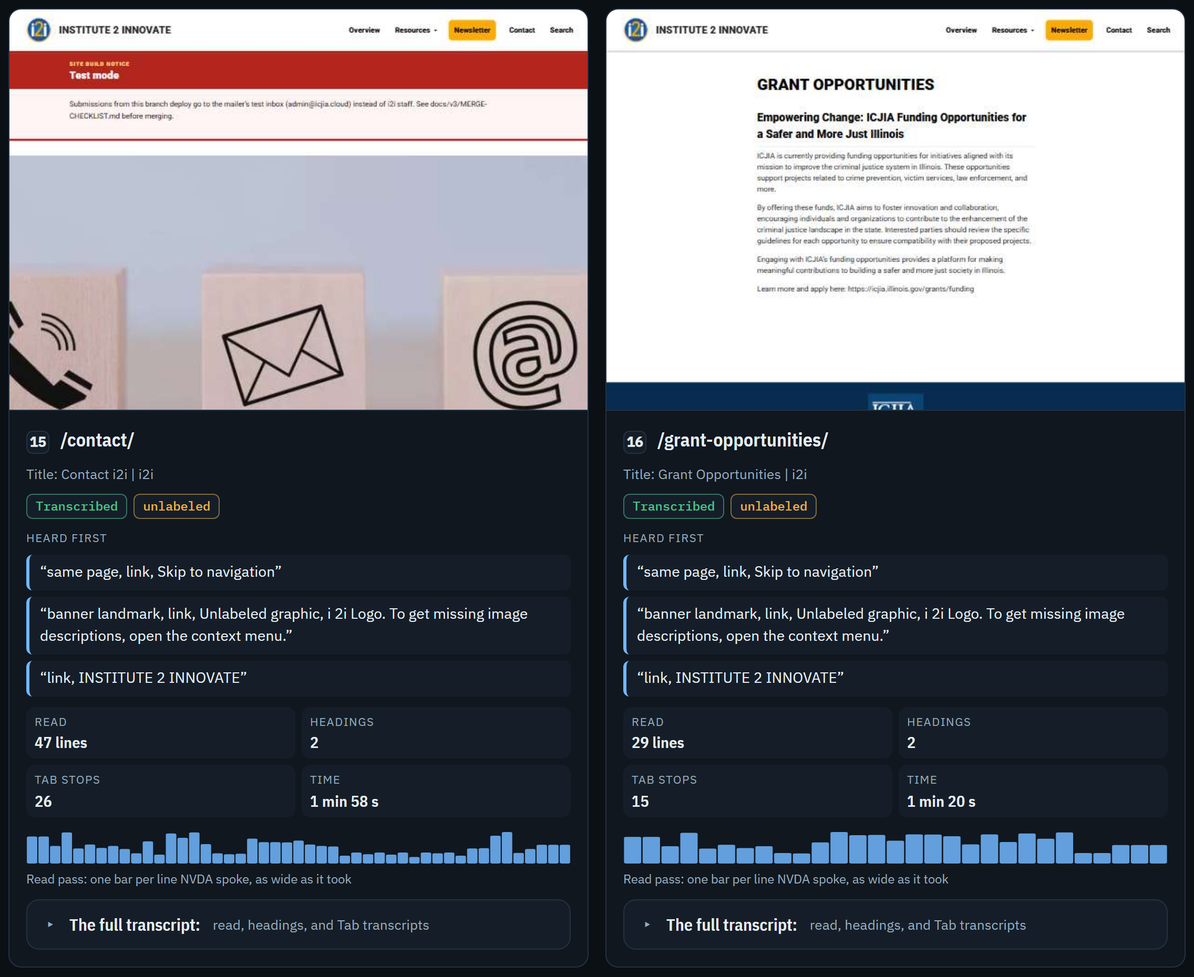
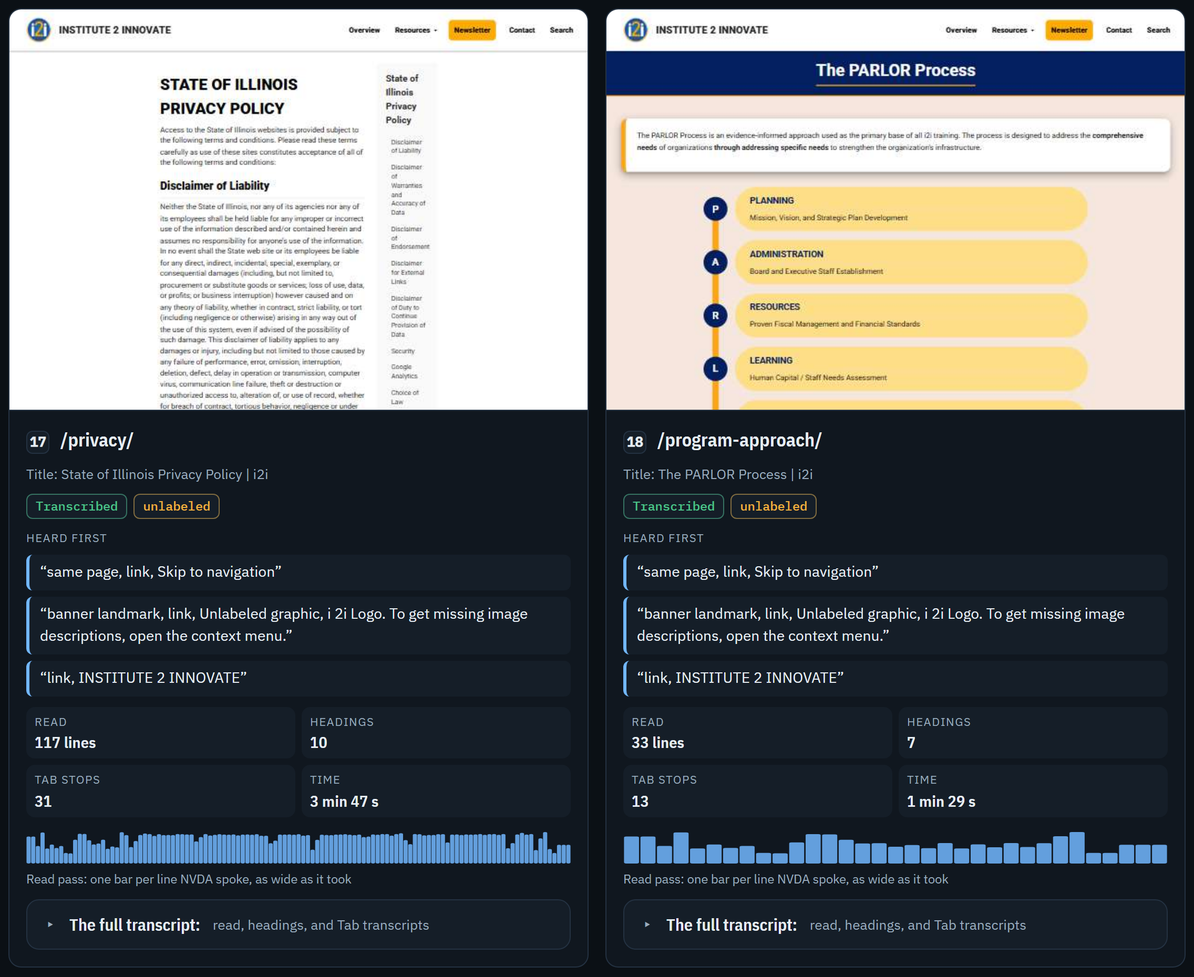
Give the owner's reason for two cards a row, and keep the README's cards picture off the contact page

diff --git a/scripts/readme-screenshots.ts b/scripts/readme-screenshots.ts
@@ -20,7 +20,8 @@
  *   report-pages.png         "Every page": a row of its cards (two, in this window), each with its
  *                            page's screenshot, what NVDA said first on it ("Heard first"), and its
  *                            full transcript, in its fold, shut: the first row with no card for a
- *                            /biographies/ page (see BIOGRAPHIES)
+ *                            page at an address in AVOIDED, which keeps out a /biographies/ page's
+ *                            photo and name, and a /contact/ page's test-mode notice
  *   report-timeline.png      the run's evidence, with its minute-by-minute timeline open
  *   report-fingerprints.png  the fingerprint check, after it has run
  *   website-dark.png         the website's bar, through the site under "The sites": its current
@@ -89,12 +90,17 @@ const SCALE = 2;
 const SLICE_MARGIN = 16;
 const PANEL_MARGIN = 8;
 /**
- * What the address of a biography has in it: each page of the i2i team's biographies shows a person's
- * photo and name. The shot of page cards leaves out every row that has a card for such a page, and
- * nothing else: a page at another address that shows a photo would still be drawn. So when the
- * fixture changes, look at that shot for photos and names.
+ * What the address of a page has in it that keeps its card out of the shot of page cards. The shot
+ * leaves out every row that has a card for a page at one of these addresses, and nothing else: a
+ * page at another address that shows the same would still be drawn. So when the fixture changes,
+ * look at that shot.
+ *
+ * - `/biographies/`: each page of the i2i team's biographies shows a person's photo and name.
+ * - `/contact/`: its screenshot carries the branch deploy's test-mode notice, a red "SITE BUILD
+ *   NOTICE" that names the mailer's test inbox and a checklist in the site's docs, which a public
+ *   README shouldn't lead its cards with.
  */
-const BIOGRAPHIES = "/biographies/";
+export const AVOIDED = ["/biographies/", "/contact/"] as const;
 
 /** The eight files this writes, in the order it takes them. */
 export const SCREENSHOTS = [
@@ -255,19 +261,20 @@ async function downTo(page: Page, selector: string, last: string, margin: number
 }
 
 /**
- * The first row of `cards`, the elements of a grid, with no card that has `avoid` in its text, and
- * `margin` of the page around it. The cards that start as high as each other are a row, and the row
- * is as wide as its cards and as tall as the tallest, so none is cut off. Stops when every row has
- * a card with `avoid` in it.
+ * The first row of `cards`, the elements of a grid, with no card that has any of `avoid` in its
+ * text, and `margin` of the page around it. The cards that start as high as each other are a row,
+ * and the row is as wide as its cards and as tall as the tallest, so none is cut off. Stops when
+ * every row has a card with one of `avoid` in it. The page's shot of its cards gives AVOIDED, each
+ * address kept out for a reason of its own.
  */
 export async function firstRowWithout(
   page: Page,
   cards: string,
-  avoid: string,
+  avoid: readonly string[],
   margin: number,
 ): Promise<Region> {
   const row = await page.evaluate(
-    ({ target, text }) => {
+    ({ target, texts }) => {
       const rows: Element[][] = [];
       let top = Number.NEGATIVE_INFINITY;
       for (const card of document.querySelectorAll(target)) {
@@ -276,7 +283,12 @@ export async function firstRowWithout(
         top = at;
         rows.at(-1)?.push(card);
       }
-      const found = rows.find((each) => each.every((card) => !card.textContent?.includes(text)));
+      const found = rows.find((each) =>
+        each.every((card) => {
+          const words = card.textContent ?? "";
+          return !texts.some((text) => words.includes(text));
+        }),
+      );
       if (found === undefined) return null;
       const boxes = found.map((card) => card.getBoundingClientRect());
       return {
@@ -286,9 +298,12 @@ export async function firstRowWithout(
         bottom: Math.max(...boxes.map((box) => box.bottom)) + window.scrollY,
       };
     },
-    { target: cards, text: avoid },
+    { target: cards, texts: avoid },
   );
-  if (row === null) throw new Error(`Every row of ${cards} has "${avoid}" in it.`);
+  if (row === null) {
+    const names = avoid.map((each) => `"${each}"`).join(" or ");
+    throw new Error(`Every row of ${cards} has ${names} in it.`);
+  }
   return withMargin(row, margin);
 }
 
@@ -382,14 +397,16 @@ async function shootReport(browser: Browser, file: string, shoot: Shoot): Promis
     await shoot(page, "report-attention.png", await around(page, attention, SLICE_MARGIN));
 
     // "Every page": a row of its cards, each with its page's screenshot, the lines NVDA said first,
-    // and its full transcript, in its fold, shut: the first row with no card for a /biographies/
-    // page, which keeps this fixture's team photos and names out of the picture. The code checks
-    // only the address, so look at the shot for photos when the fixture changes. The row ends
-    // before the next one starts, so no card is cut off.
+    // and its full transcript, in its fold, shut: the first row with no card for a /biographies/ or
+    // a /contact/ page (AVOIDED). The first keeps this fixture's team photos and names out of the
+    // picture, and the second the branch deploy's test-mode notice, which names the mailer's test
+    // inbox. The code checks only the address, so look at the shot for photos, names, and that
+    // notice when the fixture changes. The row ends before the next one starts, so no card is cut
+    // off.
     await shoot(
       page,
       "report-pages.png",
-      await firstRowWithout(page, "#pages .card", BIOGRAPHIES, PANEL_MARGIN),
+      await firstRowWithout(page, "#pages .card", AVOIDED, PANEL_MARGIN),
     );
 
     // The run's fold, open, down to the end of its minute by minute: the run's facts, the chart,

diff --git a/test/readme-screenshots.test.ts b/test/readme-screenshots.test.ts
@@ -15,6 +15,7 @@ import type { Browser } from "playwright";
 import { afterAll, beforeAll, describe, expect, it } from "vitest";
 
 import {
+  AVOIDED,
   firstRowWithout,
   makeScreenshots,
   refuseLocalAddress,
@@ -222,7 +223,7 @@ describe("a shot of a page", () => {
         "/biographies/john-roe/",
       ]);
 
-      expect(await firstRowWithout(page, ".card", "/biographies/", 4)).toEqual({
+      expect(await firstRowWithout(page, ".card", ["/biographies/"], 4)).toEqual({
         x: 0,
         y: 56,
         width: 214,
@@ -232,7 +233,7 @@ describe("a shot of a page", () => {
 
     it("is the first row when it has none, and stops when every row has one", async () => {
       const first = await gridOf(["/", "/contact/", "/privacy/", "/search/"]);
-      expect(await firstRowWithout(first, ".card", "/biographies/", 0)).toEqual({
+      expect(await firstRowWithout(first, ".card", ["/biographies/"], 0)).toEqual({
         x: 0,
         y: 0,
         width: 210,
@@ -240,9 +241,57 @@ describe("a shot of a page", () => {
       });
 
       const every = await gridOf(["/biographies/a/", "/b/", "/biographies/c/", "/biographies/d/"]);
-      await expect(firstRowWithout(every, ".card", "/biographies/", 4)).rejects.toThrow(
+      await expect(firstRowWithout(every, ".card", ["/biographies/"], 4)).rejects.toThrow(
         'Every row of .card has "/biographies/" in it.',
       );
+    });
+
+    it("passes over a row that has any of the kinds, whichever of its cards has one and whichever kind it is", async () => {
+      // A contact page in the first row's second card, a person's page in the second row's first,
+      // and neither in the third.
+      const page = await gridOf([
+        "/",
+        "/contact/",
+        "/biographies/jane-doe/",
+        "/privacy/",
+        "/search/",
+        "/about/",
+      ]);
+
+      expect(await firstRowWithout(page, ".card", ["/biographies/", "/contact/"], 4)).toEqual({
+        x: 0,
+        y: 116,
+        width: 214,
+        height: 58,
+      });
+      // Told of one kind alone, it passes over that kind alone, and the other's row is drawn.
+      expect(await firstRowWithout(page, ".card", ["/biographies/"], 4)).toEqual({
+        x: 0,
+        y: 0,
+        width: 214,
+        height: 54,
+      });
+      expect(await firstRowWithout(page, ".card", ["/contact/"], 4)).toEqual({
+        x: 0,
+        y: 56,
+        width: 214,
+        height: 58,
+      });
+    });
+
+    it("stops when every row has one of the kinds, and names them all", async () => {
+      const every = await gridOf(["/contact/", "/b/", "/biographies/c/", "/d/"]);
+
+      await expect(
+        firstRowWithout(every, ".card", ["/biographies/", "/contact/"], 4),
+      ).rejects.toThrow('Every row of .card has "/biographies/" or "/contact/" in it.');
+    });
+
+    it("keeps out a biography's photo and name, and a contact page's test-mode notice, from the shot of the cards", () => {
+      // Each is the address of a page whose screenshot a public README shouldn't lead its cards
+      // with: the i2i team's photos and names, and the branch deploy's notice of its mailer's test
+      // inbox.
+      expect([...AVOIDED]).toEqual(["/biographies/", "/contact/"]);
     });
   });
 });

diff --git a/src/share/html/style.ts b/src/share/html/style.ts
@@ -55,10 +55,11 @@ export const THEME_CSS = `:root {
  *   (`minmax(min(300px, 100%), 1fr)`), and the tiles' columns shrink to nothing (`minmax(0, 1fr)`),
  *   so nothing runs past a window 320 pixels wide, where WCAG's reflow rule is measured;
  * - the page's cards (`.cards`) are two a row where each gets at least 420 pixels (the owner's
- *   choice of 2026-10-07), and one a row otherwise, as on a phone and on paper. A column asks for
- *   half its box less half the gap, or 420 pixels when that is more, and never more than the box, so
- *   a third never fits and the grid still shrinks to a window 320 pixels wide. The fold of the quiet
- *   cards, with more than 12 pages, holds the same grid;
+ *   choice of 2026-10-07), and one a row otherwise, as on a phone and on portrait paper (landscape
+ *   paper has the room for two). A column asks for half its box less half the gap, or 420 pixels
+ *   when that is more, and never more than the box, so a third never fits and the grid still shrinks
+ *   to a window 320 pixels wide. The fold of the quiet cards, with more than 12 pages, holds the
+ *   same grid;
  * - at a glance (`.glance`): its parts in a grid, close together at the top, and further apart from
  *   the ring on. The verdict is one large line, with its sign drawn before it, in the theme's
  *   green, amber, or red, with no alternative text (`content: "✓" / ""`), since it only repeats the
@@ -190,7 +191,7 @@ code { overflow-wrap: anywhere; }
 .c-bad { color: var(--bad); border-color: color-mix(in srgb, var(--bad) 45%, var(--line)); }
 .c-warn { color: var(--warn); border-color: color-mix(in srgb, var(--warn) 45%, var(--line)); }
 .c-quiet { color: var(--muted); }
-/* pages: the cards, two a row where each gets at least 420px, and one a row otherwise, as wide as the box. A column asks for half the box less half the gap (the 16px between two), or 420px when that is more, and never more than the box itself. So a third never fits, two fit in a box 856px wide (two of 420 and the gap), and the box of a phone's window, or of a sheet of paper, is narrower, so it has one. The quiet cards' fold holds the same grid. */
+/* pages: the cards, two a row where each gets at least 420px, and one a row otherwise, as wide as the box. A column asks for half the box less half the gap (the 16px between two), or 420px when that is more, and never more than the box itself. So a third never fits, two fit in a box 856px wide (two of 420 and the gap), and the box of a phone's window, or of a portrait sheet of paper, is narrower, so it has one. The quiet cards' fold holds the same grid. */
 .cards { display: grid; grid-template-columns: repeat(auto-fill, minmax(min(100%, max(420px, calc((100% - 16px) / 2))), 1fr)); gap: 16px; }
 .cards + .folds, .cards + .panel, .folds + .panel { margin-top: 16px; }
 .card { background: var(--panel); border: 1px solid var(--line); border-radius: 12px; overflow: hidden; display: grid; grid-template-rows: auto 1fr; min-width: 0; }

diff --git a/test/share-browser.test.ts b/test/share-browser.test.ts
@@ -1619,7 +1619,7 @@ describe("Every page's cards", () => {
     expect([...shown].sort()).toEqual([1, 2]);
   });
 
-  it("puts one card in a row on Letter paper, which has no room for two of 420 px", async () => {
+  it("puts one card in a row on portrait Letter paper, which has no room for two of 420 px", async () => {
     const page = await open(pages.demo);
     // 8.5 inches at 96 to the inch, with no margin: the paper is narrower than that in all.
     await page.setViewportSize({ width: 816, height: 1056 });
@@ -1628,6 +1628,19 @@ describe("Every page's cards", () => {
     const { rows } = await cardsIn(page, "#pages .card");
 
     expect(across(rows)).toEqual([1, 1, 1, 1, 1, 1, 1]);
+  });
+
+  it("puts two cards in a row on landscape Letter paper, which has the room", async () => {
+    const page = await open(pages.demo);
+    // 11 inches at 96 to the inch is 1056 px; the browser's usual margin of 0.4 inch (38 px) on each
+    // side leaves 980, and the page's own 24 px at each side leaves a grid 932 px wide.
+    await page.setViewportSize({ width: 1056 - 2 * 38, height: 816 });
+    await page.emulateMedia({ media: "print" });
+
+    const { rows, grid } = await cardsIn(page, "#pages .card");
+
+    expect(grid).toBeGreaterThanOrEqual(2 * 420 + 16);
+    expect(across(rows)).toEqual([2, 2, 2, 1]);
   });
 
   it("lays the quiet cards' fold out the same way, two a row where there is room and one where there is not", async () => {

diff --git a/src/share/cards.ts b/src/share/cards.ts
@@ -186,9 +186,10 @@ export function cardsOf(input: CardsInput): PageCard[] {
     const name = input.name(page);
     const readSteps =
       shown === null ? [] : (transcripts.steps(shown.run.id, shown.page.slug, "read") ?? []);
-    // The card's fold shows the read transcript's TXT, so the lines it quotes are that file's. With
-    // the TXT unreadable here its fold says so, and there is nothing to quote beside it, though the
-    // steps of the read pass's JSON can still be read (and draw the strip).
+    // The card's fold shows the read transcript's TXT, so the card quotes nothing of a read pass whose
+    // file it can't show: the lines come from the pass's steps (its JSON), and the TXT only gates
+    // them. With the TXT unreadable here its fold says so, and there is nothing to quote beside it,
+    // though the steps of the read pass's JSON can still be read (and draw the strip).
     const readShown =
       shown !== null && transcripts.txt(shown.run.id, shown.page.slug, "read") !== null;
     return {

diff --git a/src/share/model.ts b/src/share/model.ts
@@ -538,9 +538,10 @@ function testedOf(runs: RunJson[]): string {
  * and NVDA's speech, until NVDA was quiet.
  *
  * A pass is quoted only when its TXT transcript can be read here, as a page's card quotes its read
- * pass (see `cardsOf`): the page shows that file, so the lines it quotes are that file's. A pass
- * whose TXT can't be read gives no lines, though its steps (the JSON) may be there, and is left
- * out, as a pass with nothing to show is.
+ * pass (see `cardsOf`). The lines come from the pass's steps (its JSON), and the TXT only gates
+ * them: the page shows the TXT file, so it quotes nothing of a pass whose file it can't show. Such a
+ * pass gives no lines, though its steps may be there, and is left out, as a pass with nothing to
+ * show is.
  */
 function heardOf(
   pages: PageStanding[],

diff --git a/README.md b/README.md
@@ -1324,11 +1324,11 @@ Its sections, in order:
   - **Alt text that's there, and still read as "Unlabeled graphic":** Chrome splits an image's alt text at spaces, punctuation, and digits, drops words of one or two letters and common words such as "logo" and "image", and treats the image as having no name when fewer than three letters are left. The card says so, and says NVDA is reading what Chrome reports (Chromium's source, `ax_image_annotator.cc` and `ax_image_stopwords.cc`, checked 6 October 2026).
   - **A fix comes from what NVDA said, never from the page's code:** voicecap keeps no page's HTML. A card's fix is the usual fix for the case NVDA's words show, so it's a suggestion, and the person reviewing decides whether it fits.
   - **What clears a problem:** a card is gone when no page is left on it. A flag clears for a page when a later run of the page doesn't raise it, or when the page is marked "Reviewed, no issues" after the run that raised it (see [Reviews: the audit trail](#reviews-the-audit-trail)); it comes back if the page's transcripts change after that review. A page that couldn't be read, or whose read stopped before the page's end, clears only when a later run reads it to its end: a review doesn't clear it. An issue clears when it's marked "Fixed". With no card left, the section isn't there: At a glance's verdict says "Nothing needs attention", and its links leave the section out. When some pages were skipped, which are on no card and weren't read, the verdict says "Nothing needs attention on the pages read", in red, and the sentence under it says how many were skipped.
-- **Every page**: a card for each page, in the latest run's order, two a row where each card gets at least 420 pixels (a laptop's or a desktop's window), and one a row on a phone's window and on paper. A card has the page's screenshot, its number and address, its title as the browser reported it, and chips for its result, its flags, and the person's review. Under them is "Heard first": the first three lines NVDA said as it read the page, in quotes, word for word. A step where NVDA said nothing isn't in quotes: it shows as the marker the transcript writes, `[no speech]`, since those aren't words NVDA said. Then come what each pass captured (the lines read, the headings, the Tab stops, and the time), a bar for each line NVDA spoke in the read pass, and, last, "The full transcript", a fold that starts shut: a transcript for each pass the run recorded (read, headings, and Tab), word for word, each with its line count, size, and fingerprint. Every card's fold reads alike on screen, so each names its page for a screen reader alone ("The full transcript of /privacy/: read, headings, and Tab transcripts"). A page with no screenshot says why where the picture would be (its run was made before 0.11.0, say, or the browser couldn't take one). A screenshot that's missing, or isn't the file its run recorded, isn't shown, and the page says so. A page with no transcripts, one that was never read, say, has no "Heard first" and no fold, and a page whose transcripts can't be read here has its fold, with a line that says so. With more than 12 pages, the cards with nothing to note fold behind one line, each still holding its own transcript fold, and the pages that need attention always show. Each page's words are in its card, and "Check the fingerprints" checks them there.
+- **Every page**: a card for each page, in the latest run's order, two a row where each card gets at least 420 pixels (a laptop's or a desktop's window), and one a row on a phone's window and on portrait paper. A card has the page's screenshot, its number and address, its title as the browser reported it, and chips for its result, its flags, and the person's review. Under them is "Heard first": the first three lines NVDA said as it read the page, in quotes, word for word. A step where NVDA said nothing isn't in quotes: it shows as the marker the transcript writes, `[no speech]`, since those aren't words NVDA said. Then come what each pass captured (the lines read, the headings, the Tab stops, and the time), a bar for each line NVDA spoke in the read pass, and, last, "The full transcript", a fold that starts shut: a transcript for each pass the run recorded (read, headings, and Tab), word for word, each with its line count, size, and fingerprint. Every card's fold reads alike on screen, so each names its page for a screen reader alone ("The full transcript of /privacy/: read, headings, and Tab transcripts"). A page with no screenshot says why where the picture would be (its run was made before 0.11.0, say, or the browser couldn't take one). A screenshot that's missing, or isn't the file its run recorded, isn't shown, and the page says so. A page with no transcripts, one that was never read, say, has no "Heard first" and no fold, and a page whose transcripts can't be read here has its fold, with a line that says so. With more than 12 pages, the cards with nothing to note fold behind one line, each still holding its own transcript fold, and the pages that need attention always show. Each page's words are in its card, and "Check the fingerprints" checks them there.
 
-  Two of the i2i report's 32 page cards, for /contact/ and /grant-opportunities/, as a wide window shows them, two a row:
+  Two of the i2i report's 32 page cards, for /privacy/ and /program-approach/, as a wide window shows them, two a row:
 
-  ![Two page cards under "Every page" in the i2i report, side by side: pages 15 and 16 of 32, /contact/ and /grant-opportunities/. Each has the page's screenshot, its number and address, its title as the browser reported it ("Contact i2i | i2i" and "Grant Opportunities | i2i"), two chips ("Transcribed" and "unlabeled", the rule that raised a flag), "Heard first" with the first three lines NVDA said on the page, in quotes ("same page, link, Skip to navigation"; "banner landmark, link, Unlabeled graphic, i 2i Logo. To get missing image descriptions, open the context menu."; and "link, INSTITUTE 2 INNOVATE"), what each pass captured (lines read, headings, Tab stops, and time), a bar for each line NVDA spoke in the read pass, and, last, a shut fold, "The full transcript: read, headings, and Tab transcripts".](https://raw.githubusercontent.com/ICJIA/voicecap/main/assets/screenshots/report-pages.png)
+  ![Two page cards under "Every page" in the i2i report, side by side: pages 17 and 18 of 32, /privacy/ and /program-approach/. Each has the page's screenshot, its number and address, its title as the browser reported it ("State of Illinois Privacy Policy | i2i" and "The PARLOR Process | i2i"), two chips ("Transcribed" and "unlabeled", the rule that raised a flag), "Heard first" with the first three lines NVDA said on the page, in quotes ("same page, link, Skip to navigation"; "banner landmark, link, Unlabeled graphic, i 2i Logo. To get missing image descriptions, open the context menu."; and "link, INSTITUTE 2 INNOVATE"), what each pass captured (lines read, headings, Tab stops, and time), a bar for each line NVDA spoke in the read pass, and, last, a shut fold, "The full transcript: read, headings, and Tab transcripts".](https://raw.githubusercontent.com/ICJIA/voicecap/main/assets/screenshots/report-pages.png)
 
 - **The details, for reviewers and auditors**: "How the test was run, what it covered, and the evidence behind it." Each part has a heading of its own, in this order:
   - **What's still to do**: the tasks that are left: an issue to fix, or to record the fix of; a page to read again (one the latest run couldn't read, or whose read stopped before the page's end); a skipped page to check, which may not belong on the list; a flagged page to decide about; and a page to review again, because it reads differently since its review. Or that nothing is left.

diff --git a/docs/superpowers/specs/2026-09-30-shareable-report-design.md b/docs/superpowers/specs/2026-09-30-shareable-report-design.md
@@ -77,7 +77,7 @@ The owner asked on 2026-10-07 for the page to put what matters most to a manager
    - its pass counts (read lines, headings, Tab stops) and its time, and its spoken-line strip: one bar per line NVDA spoke, as wide as the line took and as tall as the square root of its length;
    - **the full transcript,** folded, at the card's end: the run its transcripts are from, then a transcript for each pass the run recorded (read, headings, and Tab), word for word, each with its line count, size, and fingerprint. The fingerprint check covers them here (see "Checking the fingerprints in the page"). Every card's fold line reads alike on screen ("The full transcript: read, headings, and Tab transcripts"), so each names its page for a screen reader, in hidden words ("The full transcript of /about/: …"), and each transcript's heading does the same. A page whose transcripts can't be read here has its fold, with the line that says so; a page with no transcripts has no fold.
 
-   The cards are two a row on a wide window, where each gets at least 420 px, and never more than two (D5). A grid 856 px wide holds two of 420 px and the 16 px between them, so a laptop's or a desktop's window shows two, about 560 px each at 1280 px. On a phone's window, and in print, there is no room for two of 420 px (Letter is 816 px wide before its margins), so the cards are one a row, as wide as the page. The fold of the pages with nothing to note holds the same grid.
+   The cards are two a row on a wide window, where each gets at least 420 px, and never more than two (D5). A grid 856 px wide holds two of 420 px and the 16 px between them, so a laptop's or a desktop's window shows two, about 560 px each at 1280 px. On a phone's window, and on portrait paper, there is no room for two of 420 px (portrait Letter is 816 px wide before its margins), so the cards are one a row, as wide as the page. Landscape paper (Letter is 1056 px wide before its margins) leaves 856 px or more at the browser's usual margins, and prints two a row. The fold of the pages with nothing to note holds the same grid.
 
    The appendix of transcripts is gone; this is the one place for each page's words. Over 12 pages, the pages with nothing to note fold behind a line, as before, and each keeps its own transcript fold inside it.
 
@@ -652,7 +652,7 @@ A public site the owner can point anyone to, https://voicecap.netlify.app (appro
 - The page ring: its three parts, "Read, no problems", "Read, with problems", and "Not read", in that order, with their counts from the records (D6), its legend, and its text for a screen reader, with the legend named by the total ("7 pages") in Chromium's accessibility tree; the Word copy's table of it, with the same three words in the same order.
 - The four big numbers, and "On this page" with its links (no "What needs attention" link without a card), said once in Chromium's accessibility tree.
 - Every page: the lines NVDA said first, none beside a read transcript that couldn't be read here (though its steps can be read), and a step of no speech as its marker, without quotes, on the page and in Word; the sample of the home page's lines under How voicecap works follows the same two rules, a pass quoted only where its transcript can be read here and a step of no speech as its marker; the full transcript folded in each card; "Check the fingerprints" covering the transcripts there, and catching a changed character in one.
-- The cards' layout, in headless Chromium (D5): two a row where each gets at least 420 px and one a row where they don't, at any width (the grid 856 px wide is the edge, tried to the pixel); the first two cards sharing a row and the third starting the next at 1280 px, and one a row at 390 and 320 px and on Letter paper in print; the fold of the quiet cards laid out the same way.
+- The cards' layout, in headless Chromium (D5): two a row where each gets at least 420 px and one a row where they don't, at any width (the grid 856 px wide is the edge, tried to the pixel); the first two cards sharing a row and the third starting the next at 1280 px, and one a row at 390 and 320 px and on portrait Letter paper in print, and two a row on landscape Letter paper; the fold of the quiet cards laid out the same way.
 - The details: each part's heading in order, with its gist; the two bars there.
 - The Word copy in the same order, with each page's transcripts under it.
 - The edge cases: a site where no run counts (no verdict, ring, or numbers, and none of the details' five counts); a site of more than 12 pages, where each page with nothing to note keeps its own transcript fold, a link into it opens both folds, and "Open every section" opens them all; a page never read, and a page whose transcripts can't be read here; text that needs escaping in a page's first lines, shown as text on the page and as plain text in Word; and a ring of one part, which is one whole circle.
@@ -680,7 +680,7 @@ A public site the owner can point anyone to, https://voicecap.netlify.app (appro
    - **D2,** the verdict is red when NVDA read fewer pages than are in scope, whether a page couldn't be read or was skipped, and red comes first, whatever the cards say: then amber for cards left, then green (the website's card's rule since 0.12.3);
    - **D3,** the method line keeps the page's words, "the reading and the deciding" (`summary.second`);
    - **D4,** the Word copy matches the page: the ring's table replaces each page's latest result, and it has no "On this page";
-   - **D5,** the cards under Every page are two a row on a wide window, where each gets at least 420 px, and one a row on a phone's window and in print (the owner chose this: "Two a row", from the i2i report's cards drawn three ways). The reason: wider cards. At about 560 px each at 1280 px, a card has room for its screenshot, the lines NVDA said first, and its counts, where four across, as it was, left about 270 px for each;
+   - **D5,** the cards under Every page are two a row on a wide window, where each gets at least 420 px, and one a row on a phone's window and on portrait paper (the owner chose this: "Two a row", from the i2i report's cards drawn three ways). The reason: at four a row, an opened full transcript read in a box about 200 px wide, and its lines ran together. At two a row a card is about 560 px wide at a 1280 px window, where four across left about 270 px;
    - **D6,** the ring's parts say whether NVDA read the page: "Read, no problems", "Read, with problems", and "Not read" (the owner chose this: "Say they were read"). The reason: the middle part used to be "Need attention", which could contradict the verdict. When a page in scope was never read and has a card of its own, the verdict said "⚠ 1 problem needs attention, on 1 page" while the legend said "Need attention: 0" and "Not read: 1". Now the legend says "Read, with problems: 0" and "Not read: 1".
 
 ## Facts to confirm at the PC

diff --git a/CHANGELOG.md b/CHANGELOG.md
@@ -13,7 +13,7 @@ All notable changes to voicecap are recorded here. The format follows [Keep a Ch
   - **The sentence doesn't count the problems that need attention; the verdict does.** The sentence counted only the problems that come from flags ("1 problem needs attention, on 32 pages."), and the verdict counts every card, as "What needs attention" does, so on the demo the two would have said 4 and 5. The sentence keeps who ran it, who heard NVDA, who reviewed, and what review found ("NVDA read all 32 pages, run by Christopher Schweda."), and the verdict is the one count.
   - **"What needs attention" is there only when there's a card.** With none, the verdict says so, and "On this page" has no link to it. The "Nothing needs attention: every page was read, and every flag was fixed or checked by a person." lines, in the section and in the summary's panel, are gone.
   - **Each page's first lines and its full transcript are in its card, in place of the appendix.** A card shows "Heard first", the first three lines NVDA said as it read the page, word for word, in quotes. A step where NVDA said nothing isn't in quotes: it shows as the marker the transcript writes, `[no speech]`. Its last part is a closed fold, "The full transcript", with a transcript for each pass the run recorded (read, headings, and Tab), each with its line count, size, and fingerprint; "Check the fingerprints" checks them there. A screen reader hears each fold's line with its page's address ("The full transcript of /about/: read, headings, and Tab transcripts"), so no two sound alike. With more than 12 pages, the cards with nothing to note still fold behind one line, each holding its own transcript fold.
-  - **The cards are two a row on a wide window,** where each gets at least 420 pixels (a laptop's or a desktop's), and one a row on a phone's window and on paper. Before, as many fit a row as would at 240 pixels each: four across on a wide window, each about 270 pixels. The fold of the cards with nothing to note is laid out the same way.
+  - **The cards are two a row on a wide window,** where each gets at least 420 pixels (a laptop's or a desktop's), and one a row on a phone's window and on portrait paper. They were as many a row as would fit at 240 pixels each: four across on a wide window. At four a row, an opened full transcript read in a box about 200 pixels wide, and its lines ran together. At two a row a card is about 560 pixels wide at a 1280 pixel window, where four across left about 270. The fold of the cards with nothing to note is laid out the same way.
   - **"The details, for reviewers and auditors" comes last.** Its line says what's in it, "How the test was run, what it covered, and the evidence behind it.", and each part has a heading of its own: what's still to do, how complete the test was, when and how, what changed since the last run, problems during the runs, what these results cover, flags by rule, the human review, the evidence behind these results, how voicecap works, and how voicecap came to be. Three of the summary's panels and two of its bars are parts of it (its panel on what needs attention is the verdict and the section, and its bar of each page's latest result is the ring). A site where no run counts has the six parts that aren't counts.
   - **The Word copy has the same order.** Its first page has the top and "At a glance": the verdict, with its sign before it; the sentence; the ring as a table ("Part" and "Pages"); the four numbers as a table ("Number" and "What it counts"); and the line on what each does. Each page under "Every page" has a heading, its screenshot, one paragraph, a "Heard first" list, and each of its transcripts, under a heading that carries the page's address ("Read transcript of /about/, 18 lines"). Its headings go down to level 4. It has no appendix, no table of every page, no "On this page", and no table of each page's latest result: the ring's table takes its place.
   - **A page already shared is as it was:** only pages made from now on change. Share a site again to give it the new page; no new run is needed.
